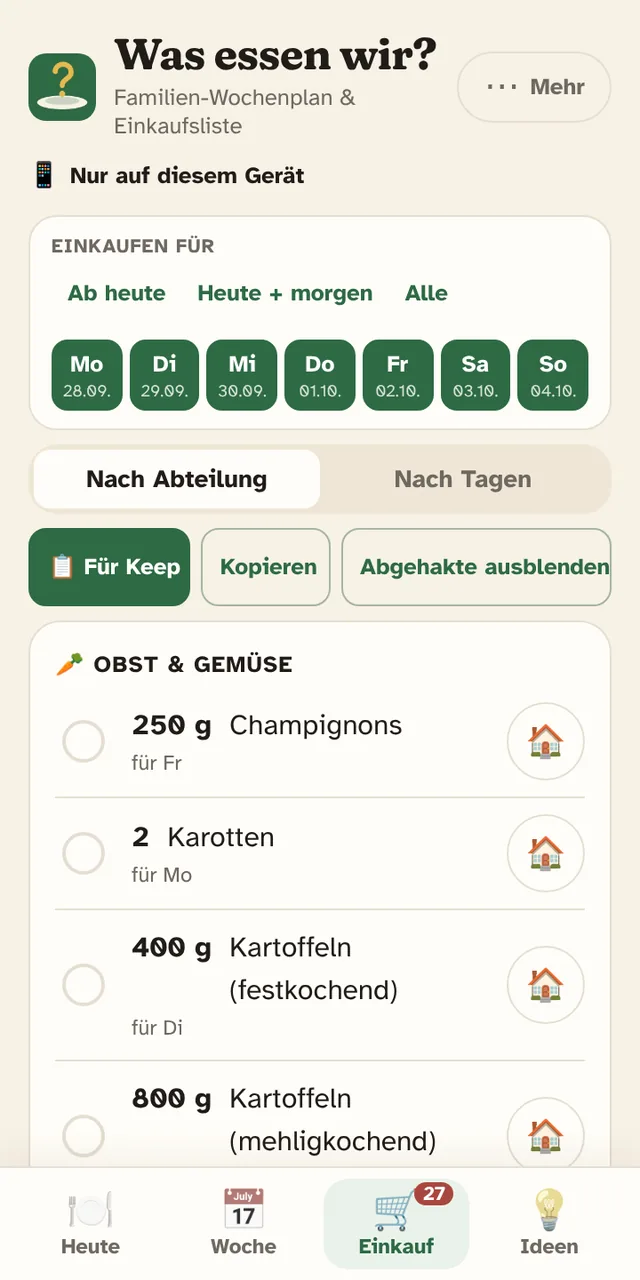
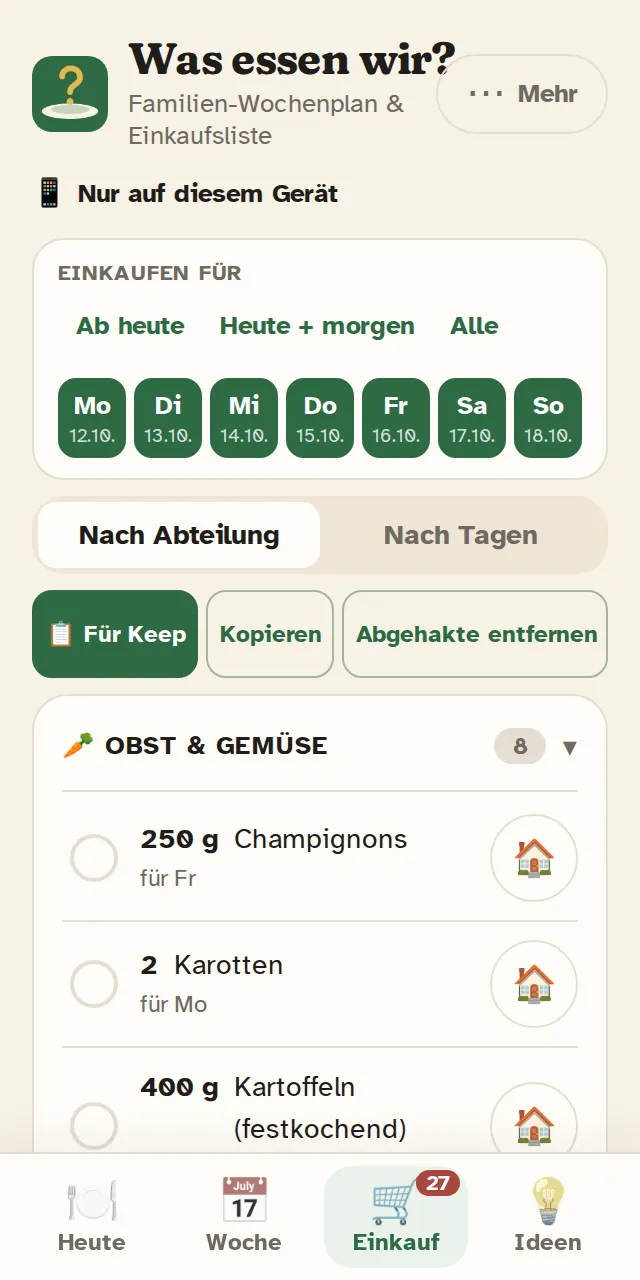
Hilfebilder alle neu aufgenommen; Einkauf-Knopfleiste auf schmalen Handys; v1.18.14
Claude-Session: https://claude.ai/code/session_01G1VhmtjTG8FTCMXgmGuqa3

diff --git a/index.html b/index.html
@@ -780,6 +780,7 @@ header.top .tag{margin:3px 0 0;font-size:13px;font-weight:500;color:var(--muted)
 /* ===== Einkauf: Buttonleiste in einer Zeile ===== */
 .shopbar{flex-wrap:nowrap;gap:6px}
 .shopbar .btn{flex:0 1 auto;white-space:nowrap;padding:8px 10px;font-size:13px;min-width:0}
+@media (max-width:360px){.shopbar{gap:4px}.shopbar .btn{padding:8px 6px;font-size:12px}}
 .fridge-card .fa{flex:none;background:var(--basil);color:#fff;border-radius:999px;padding:9px 14px;font:700 14px var(--body);display:flex;align-items:center;min-height:40px}
 @media (prefers-color-scheme:dark){:root:not([data-theme="light"]) .fridge-card .fa{color:#16120E}}
 
@@ -4546,7 +4547,7 @@ const FAV_OPTS = [["veg","🌱 Vegetarisch"],["fisch","🐟 Fisch"],["fleisch","
 /* ---------- Pro-Tipps: ein Tipp pro Tag, der Reihe nach, nur beim Start; abschaltbar (pro Gerät) ---------- */
 const TIPS = [["Kochmodus", "Tippe im Rezept auf „Kochmodus“: große Schrift, Zutaten und Schritte zum Abhaken, der Bildschirm bleibt an. Wenn du etwas abhakst, scrollt es von selbst zum Nächsten."], ["Einkauf", "Das 🏠 hinter einer Zutat in der Einkaufsliste nimmt sie von der Liste, weil ihr sie zuhause habt. „Nur diesmal“ und „Angebrochen“ holst du unter „Schon zuhause“ mit dem 🛒 zurück."], ["Personenzahl", "Im Rezept änderst du mit − und + die Personenzahl. Die Zutaten und die Mengen in den Schritten rechnen sich automatisch mit um."], ["Vorrat", "Zutaten, die immer da sind, zum Beispiel Zwiebeln: Tippe in der Einkaufsliste beim 🏠 auf „Immer“. Dann tauchen sie nie wieder auf der Liste auf, beeinflussen aber keine Rezeptvorschläge. Ändern kannst du das unter „Vorrat anpassen“ ganz unten in der Liste."], ["Alltag-Filter", "Unter Ideen findest du bei „Alle Filter“ den Reiter „Zeit & Alltag“: zum Beispiel Ofengericht, ein Topf, gut einzufrieren oder mit wenigen Zutaten."], ["Supermarkt", "Die Einkaufsliste lässt sich nach Abteilung sortieren. In den Einstellungen stellst du die Reihenfolge so ein, wie euer Supermarkt aufgebaut ist."], ["Reste", "„Was haben wir noch zuhause?“ in den Ideen: Tippe ein, was im Kühlschrank liegt, und die App zeigt dir Gerichte, die dazu passen."], ["Liste teilen", "Mit „Teilen“ in der Einkaufsliste schickst du die offenen Artikel zum Beispiel direkt an Google Keep oder an deine Familie."], ["Link teilen", "Tippe im Rezept auf „Link teilen“, um es per Nachricht zu verschicken. Wer den Link öffnet, sieht sofort das Rezept."], ["Zutaten kopieren", "Im Rezept kopiert „Zutaten kopieren“ die Mengen für eure Personenzahl, bereit zum Einfügen in eine Notiz oder eine Listen-App."], ["Leere Tage", "Mit „Leere Tage füllen“ schlägt die App für alle freien Tage Gerichte vor. Unter der Woche sind es nur schnelle Gerichte, bevorzugt vegetarisch."], ["Design", "In den Einstellungen wählst du zwischen hellem und dunklem Design, oder die App folgt automatisch deinem Handy."], ["Notiz", "Im Rezept hältst du unter „Unsere Notiz“ fest, was ihr beim nächsten Mal anders macht, zum Beispiel weniger Salz."], ["Lieblinge", "In den Einstellungen wählst du Lieblingskategorien. Sie kommen beim Würfeln und bei „Leere Tage füllen“ öfter dran."], ["Einsenden", "Unter Ideen kannst du über „Rezept hinzufügen“ ein Rezept als Foto, PDF oder Link einsenden. Nach der Prüfung steht es für alle in der App."], ["Bewerten", "Nach dem Essen fragt die App, wie es geschmeckt hat. Mit 👍 und 👎 merkt ihr euch eure Favoriten."], ["Offline", "Öffne die App einmal mit Netz und danach noch einmal: Dann startet sie auch ohne Empfang. Im Supermarkt kannst du die Einkaufsliste abhaken und ergänzen, beim nächsten Netz gleicht sie sich ab."], ["Eigene Filter", "Allergene und Vorlieben gelten standardmäßig nur auf deinem Handy. Mit dem Schalter „Filter mit Familie teilen“ in den Einstellungen nutzt ihr sie gemeinsam. Der Vorrat wird immer geteilt."], ["Sicherung", "Unter Einstellungen → Daten sichern speicherst du Plan, eigene Rezepte und Einstellungen als Datei, zum Beispiel vor einem Handywechsel."], ["App installieren", "Android (Chrome): oben rechts ⋮ → „App installieren“. iPhone (Safari): unten auf das Teilen-Symbol tippen → „Zum Home-Bildschirm“ → „Hinzufügen“. Danach startet Was essen wir? wie eine normale App, ohne Browserleiste."]];
 const LS_TIPS = "essensplan-tips";
-const APP_VERSION = "v1.18.13";
+const APP_VERSION = "v1.18.14";
 document.getElementById("appVer").textContent = "Version " + APP_VERSION;
 const LS_HERO = "essensplan-hero";
 function heroClosed(){ try{ return !!localStorage.getItem(LS_HERO); }catch(e){ return false; } }
